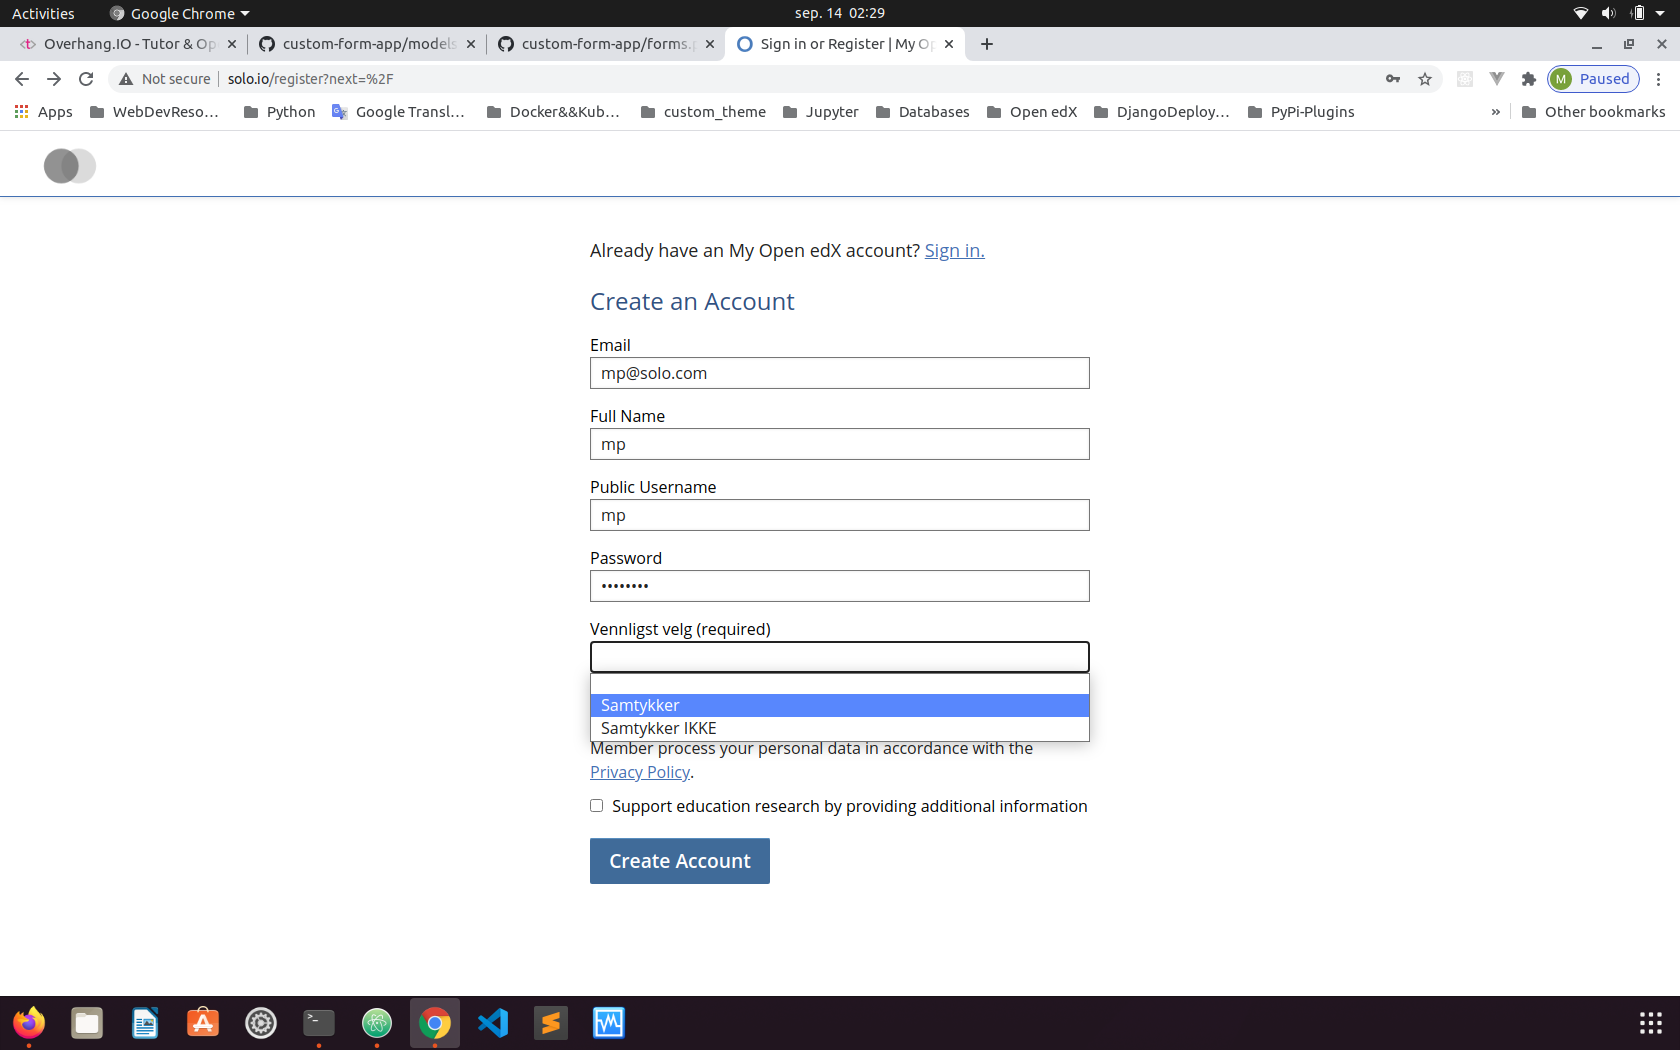
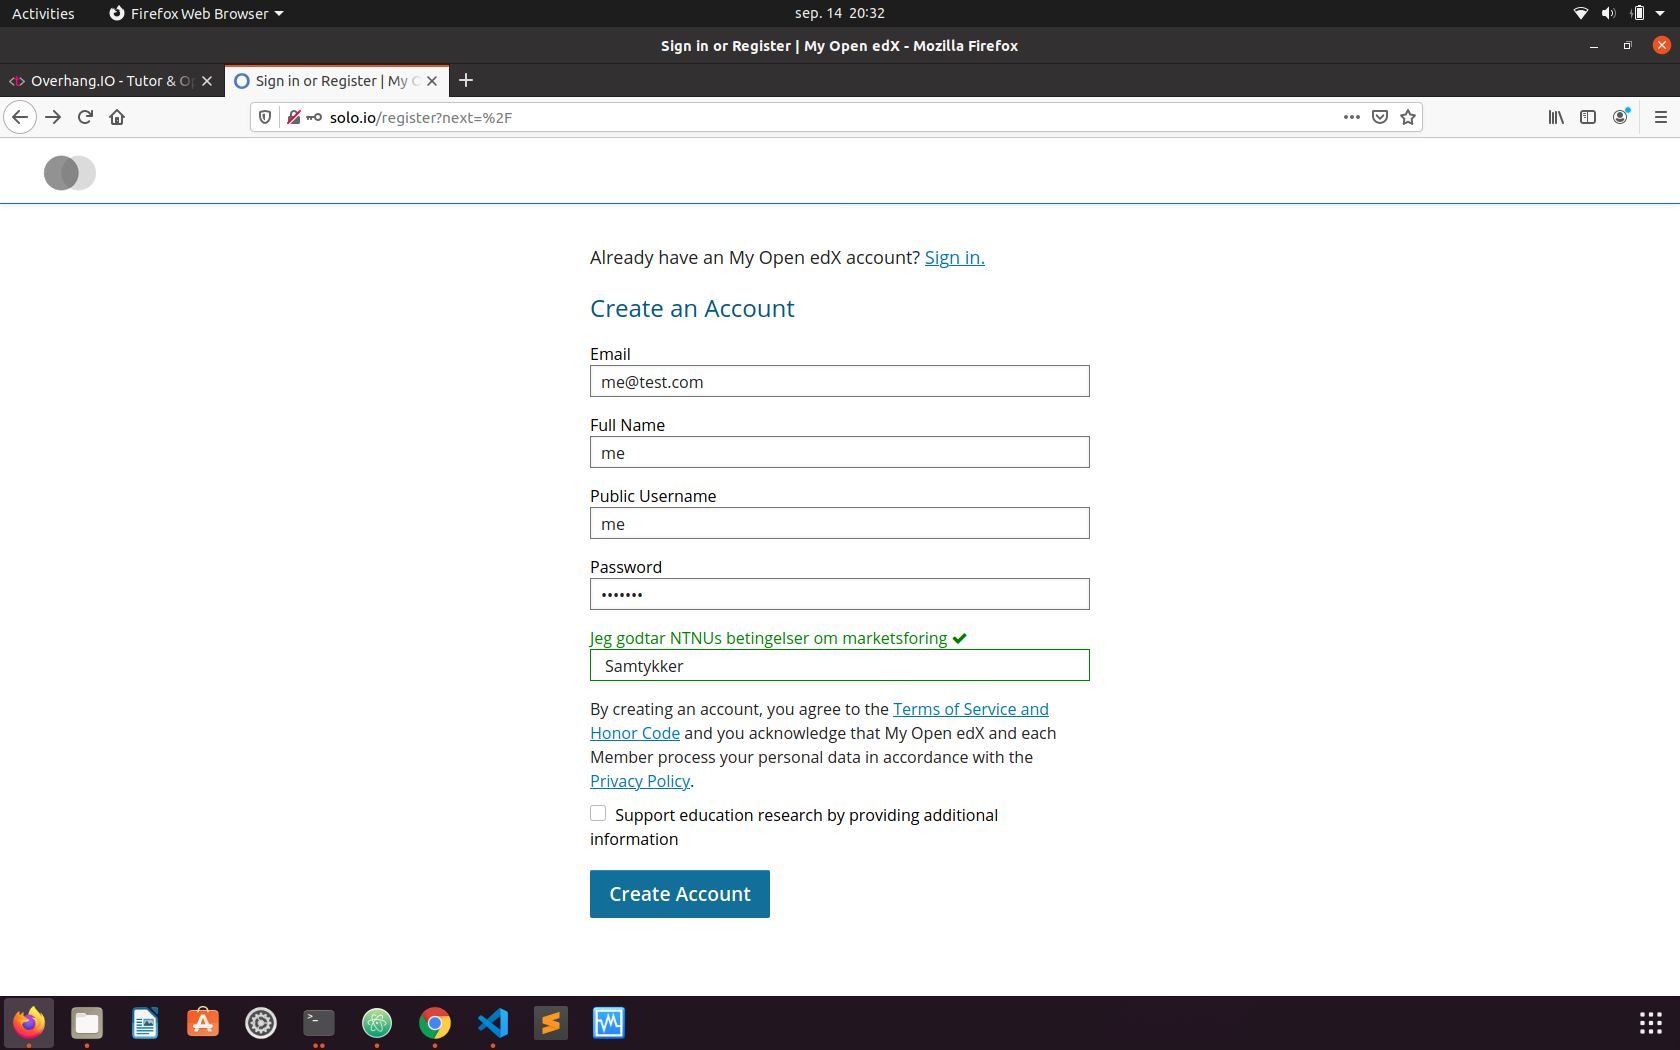
removed å æ

diff --git a/custom_reg_form/migrations/0001_initial.py b/custom_reg_form/migrations/0001_initial.py
@@ -16,8 +16,8 @@ class Migration(migrations.Migration):
             name='ExtraInfo',
             fields=[
                 ('id', models.AutoField(auto_created=True, primary_key=True, serialize=False, verbose_name='ID')),
-                ('samtykke', models.CharField(blank=True, choices=[(b'JA',b'Samtykker'), (b'NEI', b'Samtykker IKKE'),],
-                       verbose_name=b'Vennligst velg ', max_length=60 )),
+                ('samtykke', models.CharField(blank=False, choices=[(b'JA',b'Samtykker'), (b'NEI', b'Samtykker IKKE'),],
+                       verbose_name=b'Jeg godtar NTNUs betingelser om marketsforing ', max_length=150 )),
                 ('user', models.OneToOneField(null=True, to=settings.AUTH_USER_MODEL,on_delete=models.CASCADE)),
             ],
         ),

diff --git a/custom_reg_form/models.py b/custom_reg_form/models.py
@@ -11,6 +11,8 @@ class ExtraInfo(models.Model):
 
     user = models.OneToOneField(USER_MODEL, null=True, on_delete=models.CASCADE)
     SAMTYKKE = (('JA','Samtykker'),
-                ('NEI', 'Samtykker IKKE'),)
+                ('NEI','Samtykker IKKE'),)
 
-    samtykke =  models.CharField(blank=False, verbose_name='Vennligst velg ', choices=SAMTYKKE, max_length=60)
+    samtykke =  models.CharField(blank=False, 
+                       verbose_name='Jeg godtar NTNUs betingelser om marketsforing ',
+                         choices=SAMTYKKE, max_length=150)

diff --git a/custom_reg_form/forms.py b/custom_reg_form/forms.py
@@ -7,7 +7,9 @@ class ExtraInfoForm(ModelForm):
     """
     def __init__(self, *args, **kwargs):
         super(ExtraInfoForm, self).__init__(*args, **kwargs)
-        self.fields['samtykke']
+        self.fields['samtykke'].error_messages = {
+            "required": u"Vennligst velg",
+            "invalid": u"Den felt kan ikke vaare tom",}
 
     class Meta(object):
         model = ExtraInfo

diff --git a/README.md b/README.md
@@ -52,4 +52,5 @@ Than
 
 ![](src/samtykke.png)
 
+
 ![](src/samtykke_admin.png)
